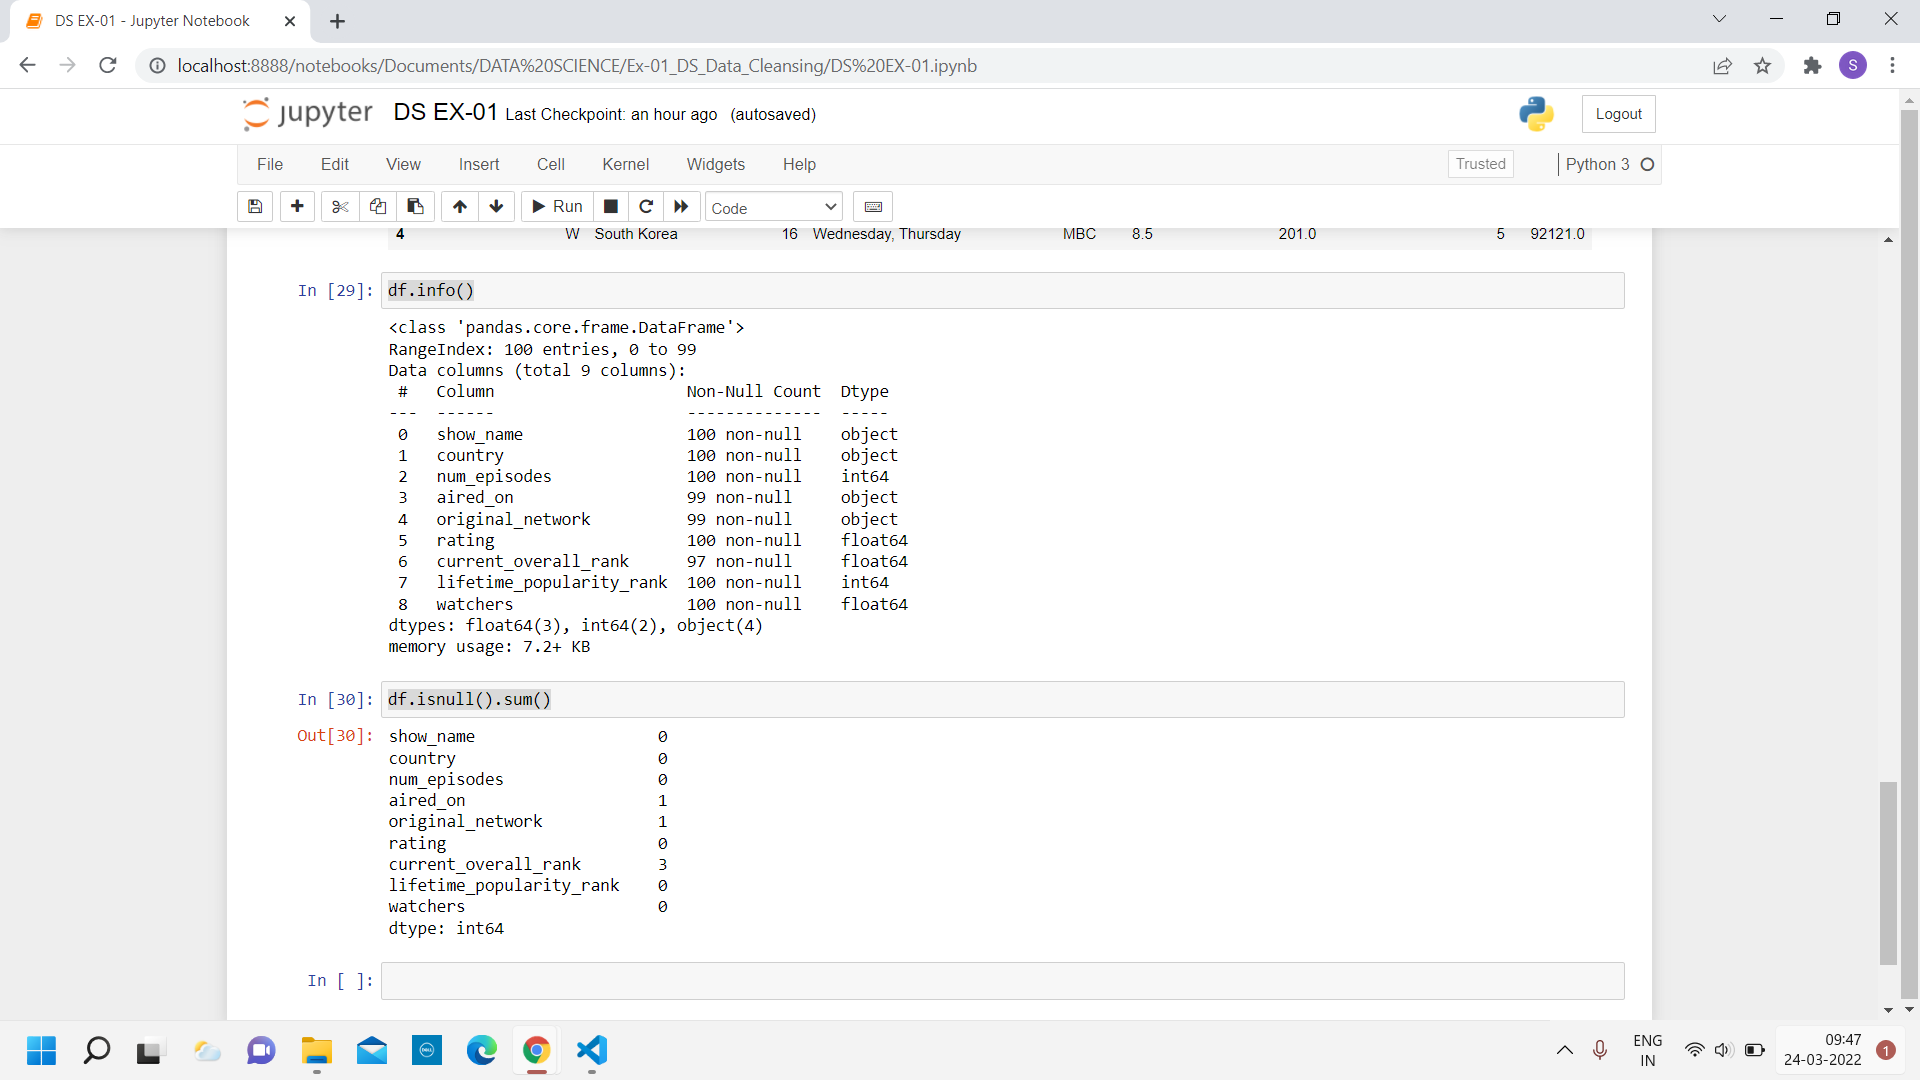
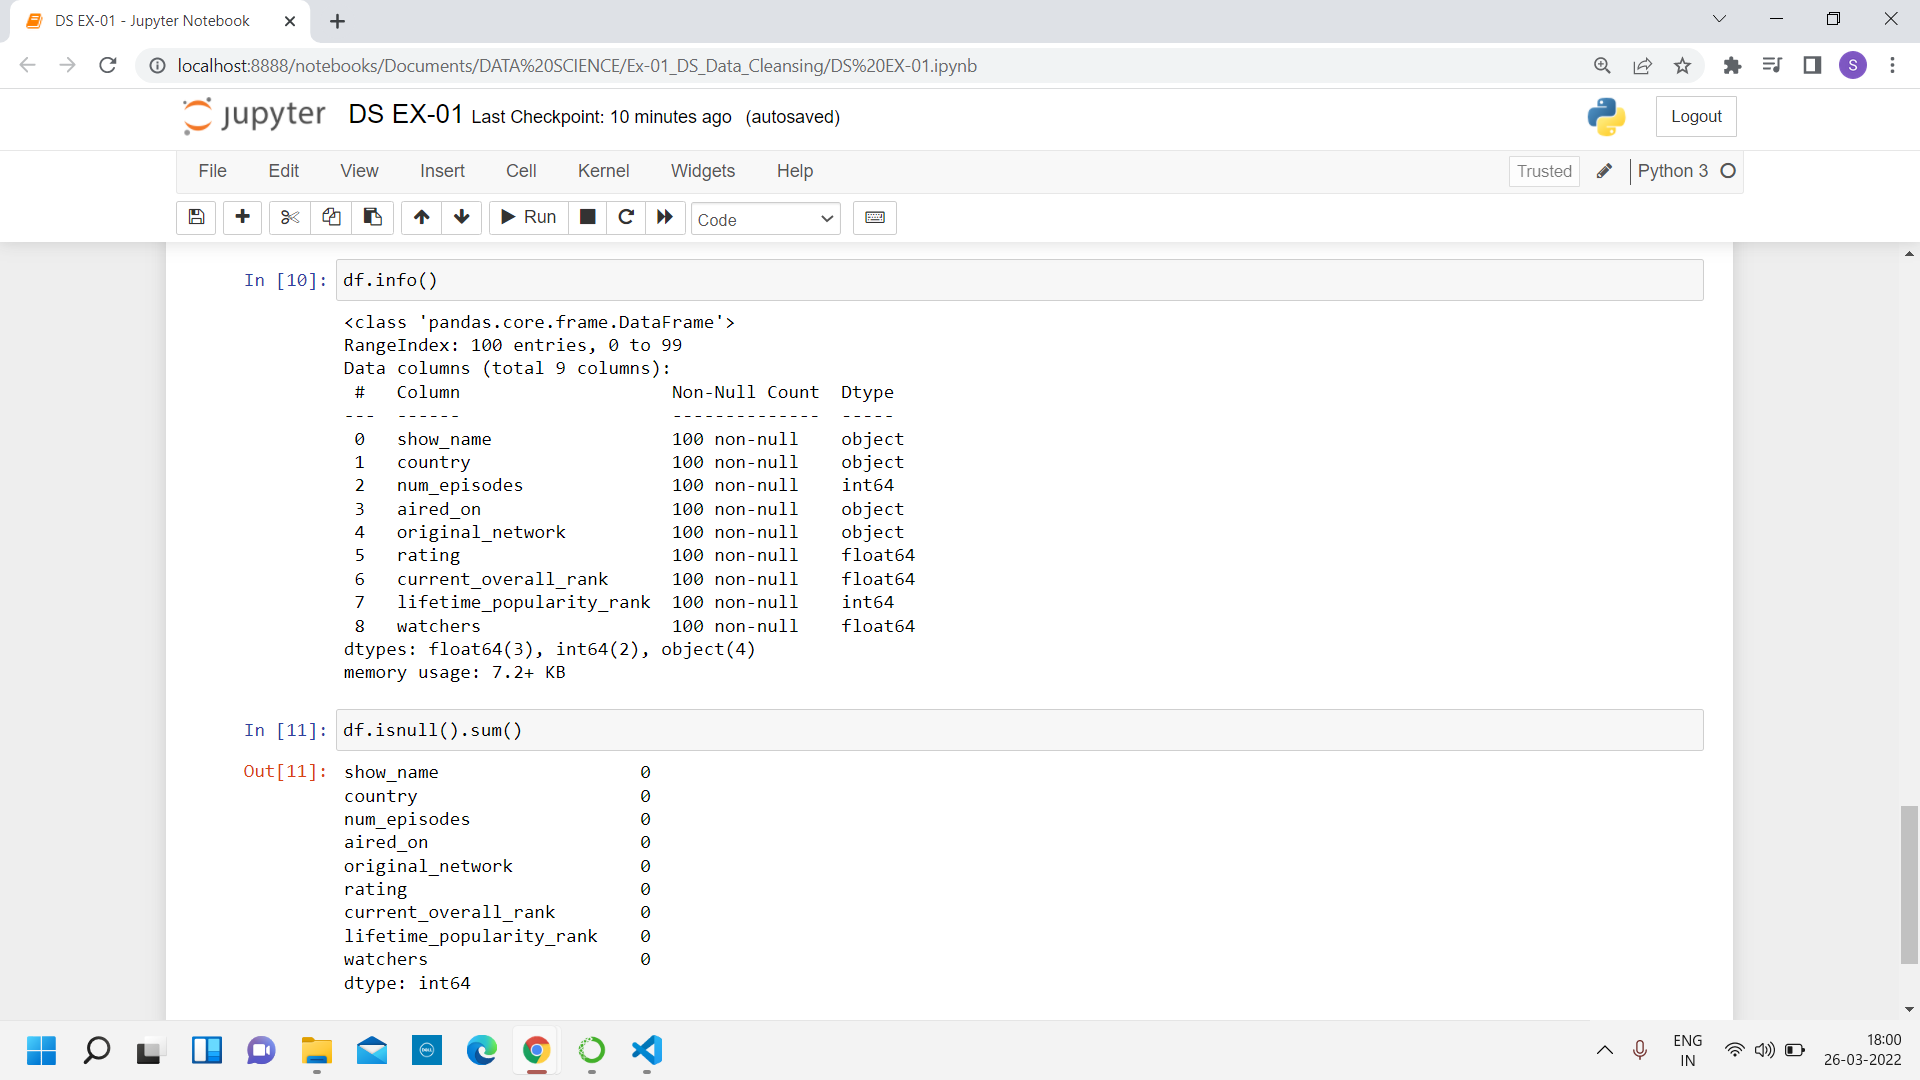
Updated Readme

diff --git a/README.md b/README.md
@@ -28,8 +28,11 @@ df.head(10)
 df.info()
 df.isnull().sum()
 df['show_name']=df['show_name'].fillna(df['show_name'].mode()[0])
+df['aired_on']=df['aired_on'].fillna(df['aired_on'].mode()[0])
+df['original_network']=df['original_network'].fillna(df['original_network'].mode()[0])
 df.head()
 df['rating']=df['rating'].fillna(df['rating'].mean())
+df['current_overall_rank']=df['current_overall_rank'].fillna(df['current_overall_rank'].mean())
 df.head()
 df['watchers']=df['watchers'].fillna(df['watchers'].median())
 df.head()
